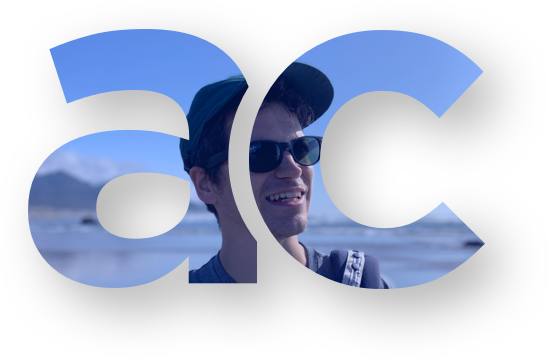
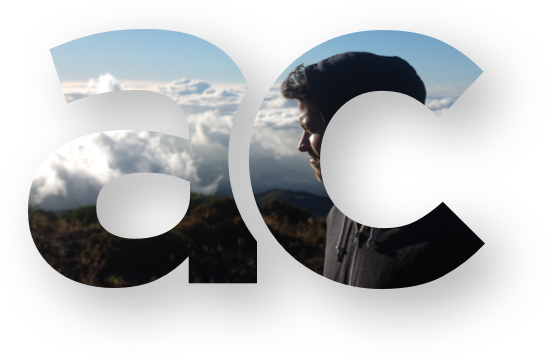
Adding additional content for portfolio items, updating profile pictures

diff --git a/src/pages/index.js b/src/pages/index.js
@@ -14,8 +14,10 @@ import ScrollAnimation from "react-animate-on-scroll"
 import ACImage from "../assets/images/ac-image.png"
 import ScrollEntranceImage from "../assets/images/scroll-entrance-screenshot.png"
 import ApplioImage from "../assets/images/applio-screenshot.png"
-import EtchThemesImage from "../assets/images/etch-themes-screenshot.png"
+// import EtchThemesImage from "../assets/images/etch-themes-screenshot.png"
+import TipImage from "../assets/images/tip-screenshot.png"
 import GuitarTunerImage from "../assets/images/guitar-tuner-screenshot.png"
+import ProfileImage from "../assets/images/profile-picture.jpg"
 import SEO from "../components/seo"
 
 const Index = props => {
@@ -25,19 +27,16 @@ const Index = props => {
   const siteTitle = data.site.siteMetadata.title
   const posts = data.allMarkdownRemark.edges
 
-  const updateTheme = (visible, theme) => {
-    setTheme("light")
-  }
-
   return (
     <Layout location={props.location} title={siteTitle} theme={theme}>
       <SEO title="All posts" />
+
       <PageSection colour="blue">
         <Grid>
-          <ScrollAnimation animateIn="fade-in-from-left" animateOnce="true">
+          <ScrollAnimation animateIn="fade-in-from-left" animateOnce={true}>
             <img src={ACImage} alt="AC" />
           </ScrollAnimation>
-          <ScrollAnimation animateIn="fade-in-from-right" animateOnce="true">
+          <ScrollAnimation animateIn="fade-in-from-right" animateOnce={true}>
             <IndentedTextBlock heading="Hi, I'm Andrew Caygill. Nice to meet you!">
               I’m a Front End Developer from England living in Vancouver, BC. I
               specialise in ultrices ornare purus semper.
@@ -46,6 +45,7 @@ const Index = props => {
         </Grid>
         <SectionConnector label="projects" colour="white" />
       </PageSection>
+
       <PageSection colour="white">
         <PortfolioItem
           heading="Applio"
@@ -54,10 +54,10 @@ const Index = props => {
           image={ApplioImage}
         >
           <p>
-            Lorem, ipsum dolor sit amet consectetur adipisicing elit. Fugit,
-            ipsum nostrum? Magni possimus deserunt maiores in eum! Ex corporis
-            iusto quam nostrum dolores animi quos doloribus porro deleniti
-            facere. Cum?
+            Applio is a platform for landlords and real estate agents to handle
+            the entire process of creating tenancy agreements, including payment
+            of application fees and online E-Signatures. Built using the
+            Meteor.js framework.
           </p>
         </PortfolioItem>
       </PageSection>
@@ -70,14 +70,38 @@ const Index = props => {
           layout="reversed"
         >
           <p>
-            Lorem, ipsum dolor sit amet consectetur adipisicing elit. Fugit,
-            ipsum nostrum? Magni possimus deserunt maiores in eum! Ex corporis
-            iusto quam nostrum dolores animi quos doloribus porro deleniti
-            facere. Cum?
+            Scroll Entrance is a open source JavaScript plugin I developed to
+            easily add animations to elements when they are scrolled into view.
           </p>
         </PortfolioItem>
       </PageSection>
       <PageSection colour="white">
+        <PortfolioItem
+          heading="Travel Industry Personnel"
+          url="https://travelindustrypersonnel.com/"
+          theme="red"
+          image={TipImage}
+        >
+          <p>
+            Travel Industry Personnel, based in Toronto, is the largest company
+            committed to staffing within the Canadian travel industry. The
+            client required a rebrand of their existing website which was over
+            10 years old. Work was commissioned to build a fully responsive,
+            high performance website which allowed users to search and apply for
+            available jobs, integrate social media api as well as ensuring it
+            was easy for the company to maintain.
+          </p>
+
+          <p>
+            For this project, I developed a bespoke WordPress theme and
+            implemented a Job Board for applicants to apply for jobs online. Job
+            postings are syncronised with Indeed, LinkedIn and Twitter to reach
+            as many potential applicants as possible.
+          </p>
+        </PortfolioItem>
+      </PageSection>
+
+      {/* <PageSection colour="white">
         <PortfolioItem
           heading="Etch Themes"
           url="#"
@@ -91,36 +115,26 @@ const Index = props => {
             facere. Cum?
           </p>
         </PortfolioItem>
-      </PageSection>
+      </PageSection> */}
       <PageSection colour="white">
         <PortfolioItem
           heading="Guitar Tuner"
           url="#"
+          gitUrl="#"
           theme="yellow"
           image={GuitarTunerImage}
           layout="reversed"
         >
           <p>
-            Lorem, ipsum dolor sit amet consectetur adipisicing elit. Fugit,
-            ipsum nostrum? Magni possimus deserunt maiores in eum! Ex corporis
-            iusto quam nostrum dolores animi quos doloribus porro deleniti
-            facere. Cum?
+            Design and development of a Guitar tuner, built using React and the
+            Web Audio API.
           </p>
         </PortfolioItem>
       </PageSection>
-      <PageSection colour="black">
-        <ScrollAnimation
-          animateIn="fade-in-from-bottom"
-          afterAnimatedIn={() => {
-            setTheme("light")
-          }}
-          afterAnimatedOut={() => {
-            setTheme("dark")
-          }}
-        >
-          {/* <ScrollAnimation afterAnimatedOut={setTheme("light")}> */}
+      <PageSection colour="blue">
+        <ScrollAnimation animateIn="fade-in-from-bottom">
           <Grid>
-            <div>Icons</div>
+            <img src={ProfileImage} alt="Profile Picture" />
 
             <IndentedTextBlock heading="More than just a developer...">
               <p>
@@ -143,10 +157,10 @@ const Index = props => {
             </IndentedTextBlock>
           </Grid>
         </ScrollAnimation>
-        {/* </ScrollAnimation> */}
-        <SectionConnector label="latest articles" colour="blue" />
+        {/* <SectionConnector label="latest articles" colour="blue" /> */}
       </PageSection>
-      <PageSection colour="blue">
+
+      {/* <PageSection colour="blue">
         <Grid>
           <ScrollAnimation animateIn="fade-in-from-bottom" animateOnce="true">
             <IndentedTextBlock heading="Latest Articles">
@@ -161,7 +175,7 @@ const Index = props => {
           </ScrollAnimation>
           <LatestArticles posts={posts} limit={3} />
         </Grid>
-      </PageSection>
+      </PageSection> */}
     </Layout>
   )
   //}

diff --git a/src/components/header/index.js b/src/components/header/index.js
@@ -6,7 +6,7 @@ import componentStyles from "./header.module.css"
 
 const Header = props => {
   return (
-    <header className={componentStyles.siteHeader}>
+    <header className={`site-header ${componentStyles.siteHeader}`}>
       <Logo theme={props.theme} />
       <Navigation theme={props.theme} />
     </header>
